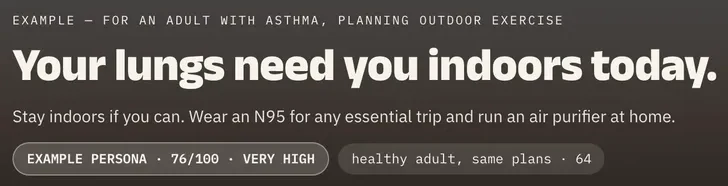
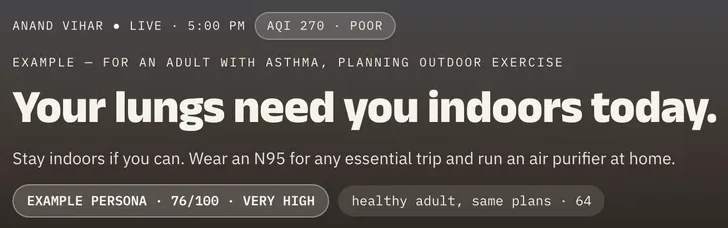
panel-scale gate, review round 1: one panel per system, painted and ceiling partners, bounded decode, one leg; SaafSaans strip regains the shared-sky line (728x228)

diff --git a/tests/panel-scale.spec.js b/tests/panel-scale.spec.js
@@ -9,35 +9,51 @@
 // had already been given a home crop, for plate HEIGHT rather than legibility,
 // and rendered at 0.68 and 0.53. Nothing measured any of it.
 //
-// WHICH CHANGE TURNS IT RED — run as a mutation before shipping, recorded in
-// docs/STATUS.md D130: remove `homeCrop: true` from `citevyn` in
-// src/data/projects.js — the full capture returns to the home plate at 0.41.
+// WHICH CHANGE TURNS IT RED — run as mutations before shipping, recorded in
+// docs/STATUS.md D130:
+//   1. Remove `homeCrop: true` from `citevyn` in src/data/projects.js — the
+//      full capture returns to the home plate at 0.41.
+//   2. Replace quorum-crop.webp with a 200px-wide copy — the CEILING partner
+//      goes red: shot.css stretches any crop to the column, and a crop blown up
+//      to 2.4x is the same picture-of-evidence, blurred (a reviewer's finding).
+//   3. `.artefact-shot img { visibility: hidden }` — the PAINTED partner goes
+//      red; a box with a width is not a picture anyone sees (cross-model).
 //
 // WHAT IT DOES NOT COVER, said rather than left to be discovered:
 //   - Mobile. At 390 the column is 270px and every panel, crop included, sits
 //     at 0.30–0.39 — a floor there is either vacuous or unmeetable. The alt text
 //     and the provenance line carry the claim on a phone (Shot.astro says so).
+//     The test runs once, at 1440; the mobile project skips it rather than
+//     measure the identical numbers a second time.
 //   - Whether the crop carries the RIGHT region. Scale is a proxy for
 //     legibility, not for truth; the alt text names what must be in frame and
 //     the render is looked at (Definition of Done item 2).
+//   - A `srcset` candidate that is itself a downsample of the full capture:
+//     naturalWidth describes the file served, not the capture it came from.
+//     `transform: scale()` on the image: the box grows, the text does not. Both
+//     contrived, neither in src/ (grepped 2026-08-26); shared with every gate
+//     that reads computed geometry.
 //   - Project pages. They show the full capture on purpose — D62 in
 //     src/pages/projects/[slug].astro — and are read, not skimmed.
 
 import { test, expect } from '@playwright/test';
+import { projects } from '../src/data/projects.js';
 
 /* Half its natural width. Measured 2026-08-26 before the fix: 0.41 and 0.30
-   fail, 0.68 and 0.53 pass; after it, the two new strips land at 0.67 and 0.66.
+   fail, 0.68 and 0.53 pass; after it, the two new strips land at 0.67 and 0.65.
    A margin of 0.03 on the tightest passing panel (NarraTwin's design at 0.53)
    is thin and deliberate — that panel is a labelled design, not a capture, and
    its text is drawn larger; raising the floor would demand a recut of an asset
    the owner approved (D67). Recorded, not rounded. */
 const MIN_SCALE = 0.5;
 
-/* Every system on the home page ships a panel — SystemPlate.astro requires the
-   image or throws at build. The floor is a DENOMINATOR: four systems, four
-   panels; a count under it means the walk found nothing and its empty
-   violation list proves nothing. */
-const MIN_PANELS = 4;
+/* Every system in projects.js ships a panel on the home page — SystemPlate.astro
+   requires the image or throws at build. Derived from the data, not a count,
+   so a missing panel cannot be covered by a duplicate under another plate (a
+   cross-model finding against the first draft's "at least four"). */
+const SYSTEMS = Object.keys(projects).sort();
+
+test.skip(({ isMobile }) => isMobile, 'measured once, at 1440 — see the header');
 
 test('/ at 1440 — every home artefact panel renders at half its natural width or more', async ({ page }) => {
   await page.setViewportSize({ width: 1440, height: 900 });
@@ -45,31 +61,52 @@ test('/ at 1440 — every home artefact panel renders at half its natural width 
 
   /* The panels are lazy-loaded and below the fold, so naturalWidth reads 0
      until each is scrolled into view and decoded — the first probe reported
-     0x0 for three of the four and "Infinity" as their scale. */
+     0x0 for three of the four and "Infinity" as their scale. Both waits are
+     bounded: an image that never arrives must fail the PARTNER below with its
+     name, not the 30s test timeout with none (a reviewer's probe). */
   const panels = await page.$$eval('.plate[id] .artefact-shot img', async (imgs) => {
+    const bounded = (p, ms) => Promise.race([p, new Promise((r) => setTimeout(r, ms))]);
     for (const img of imgs) {
       img.scrollIntoView();
       if (!img.complete || !img.naturalWidth) {
-        await new Promise((r) => { img.onload = r; img.onerror = r; setTimeout(r, 5000); });
+        await bounded(new Promise((r) => { img.onload = r; img.onerror = r; }), 5000);
       }
-      try { await img.decode(); } catch { /* a decode error still leaves naturalWidth to read */ }
+      await bounded(img.decode().catch(() => {}), 5000);
     }
-    return imgs.map((img) => ({
-      plate: img.closest('.plate[id]').id,
-      natural: img.naturalWidth,
-      rendered: img.getBoundingClientRect().width,
-      src: img.currentSrc.split('/').pop(),
-    }));
+    return imgs.map((img) => {
+      const cs = getComputedStyle(img);
+      const r = img.getBoundingClientRect();
+      return {
+        plate: img.closest('.plate[id]').id,
+        natural: img.naturalWidth,
+        rendered: r.width,
+        painted: cs.visibility === 'visible' && cs.display !== 'none' && r.width > 0 && r.height > 0,
+        src: img.currentSrc.split('/').pop(),
+      };
+    });
   });
 
-  /* PARTNER FIRST: the population exists and every image really loaded. An
-     image that never decoded has naturalWidth 0 and would divide to Infinity —
-     a "pass" that measured nothing. */
-  expect(panels.length, `only ${panels.length} home panels found — expected at least ${MIN_PANELS}`)
-    .toBeGreaterThanOrEqual(MIN_PANELS);
+  /* PARTNERS FIRST. (1) One panel per system, by plate id — the population is
+     the data, not a number. (2) Every image really loaded: naturalWidth 0
+     divides to Infinity, a "pass" that measured nothing. (3) Every image is
+     painted: a hidden box still has a width. (4) No image is blown UP past its
+     own pixels — shot.css sets width: 100%, so a crop narrower than the column
+     stretches and blurs, which is the defect wearing the opposite sign. */
+  expect(panels.map((p) => p.plate).sort(), 'plates carrying a panel — expected exactly the systems in projects.js')
+    .toEqual(SYSTEMS);
   expect(
     panels.filter((p) => !(p.natural > 0)).map((p) => `${p.plate} ${p.src}`),
     'panels whose image never loaded (naturalWidth 0) — scale cannot be measured',
+  ).toEqual([]);
+  expect(
+    panels.filter((p) => !p.painted).map((p) => `${p.plate} ${p.src}`),
+    'panels whose image is not painted (hidden, display: none, or a zero box)',
+  ).toEqual([]);
+  expect(
+    panels
+      .filter((p) => p.rendered > p.natural + 0.5)
+      .map((p) => `${p.plate} ${p.src}: ${Math.round(p.rendered)}px of ${p.natural}px`),
+    'panels rendered LARGER than their own pixels — an upscaled, blurred crop',
   ).toEqual([]);
 
   /* RED WHEN: a full capture is served where the crop should be — see the

diff --git a/src/data/projects.js b/src/data/projects.js
@@ -131,9 +131,10 @@ export const projects = {
       'plans, scores <em>64</em>.',
     shot: 'saafsaans-en',
     /* saafsaans-en is 1600px wide; at the 477px column it rendered at 0.30 — the
-       11px mono caps at ~3.3px (DEF-70). The crop is the persona line, the
-       headline and both score chips — 728x186, cut from the same live capture,
-       0.66 at the column — and is the home image at every width. */
+       11px mono caps at ~3.3px (DEF-70). The crop is the shared-sky line (the
+       proof says "one sky", the prov says 5:00 PM — both in frame), the persona
+       line, the headline and both score chips — 728x228, cut from the same live
+       capture, 0.65 at the column — and is the home image at every width. */
     homeCrop: true,
     crop: 'saafsaans-crop',
     alt:

diff --git a/docs/evidence/projects/saafsaans.md b/docs/evidence/projects/saafsaans.md
@@ -148,7 +148,7 @@ Taken from the running site, not from stored screenshots.
 | File | Source |
 |---|---|
 | `src/assets/projects/saafsaans-en.webp` | `https://saafsaans.stackclimb.com` |
-| `src/assets/projects/saafsaans-crop.webp` | crop of the above — the persona line, headline and both score chips, 728×186. **Re-cut 2026-08-26 (DEF-70):** it was a 900×267 phone crop served below 700px; the home plate now shows it at every width (`homeCrop`), because the full capture rendered at 0.30 of its size in the desktop column. The project page still shows the full capture above 700px |
+| `src/assets/projects/saafsaans-crop.webp` | crop of the above — the shared-sky line (`ANAND VIHAR · LIVE · 5:00 PM · AQI 270 · POOR`), the persona line, headline and both score chips, 728×228. **Re-cut 2026-08-26 (DEF-70):** it was a 900×267 phone crop served below 700px; the home plate now shows it at every width (`homeCrop`), because the full capture rendered at 0.30 of its size in the desktop column. The project page still shows the full capture above 700px |
 
 **Removed 2026-08-12 (D74):** `saafsaans-hi.webp`, captured from
 `https://saafsaans.stackclimb.com/?theme=light&lang=hi`. It was referenced by nothing — no
